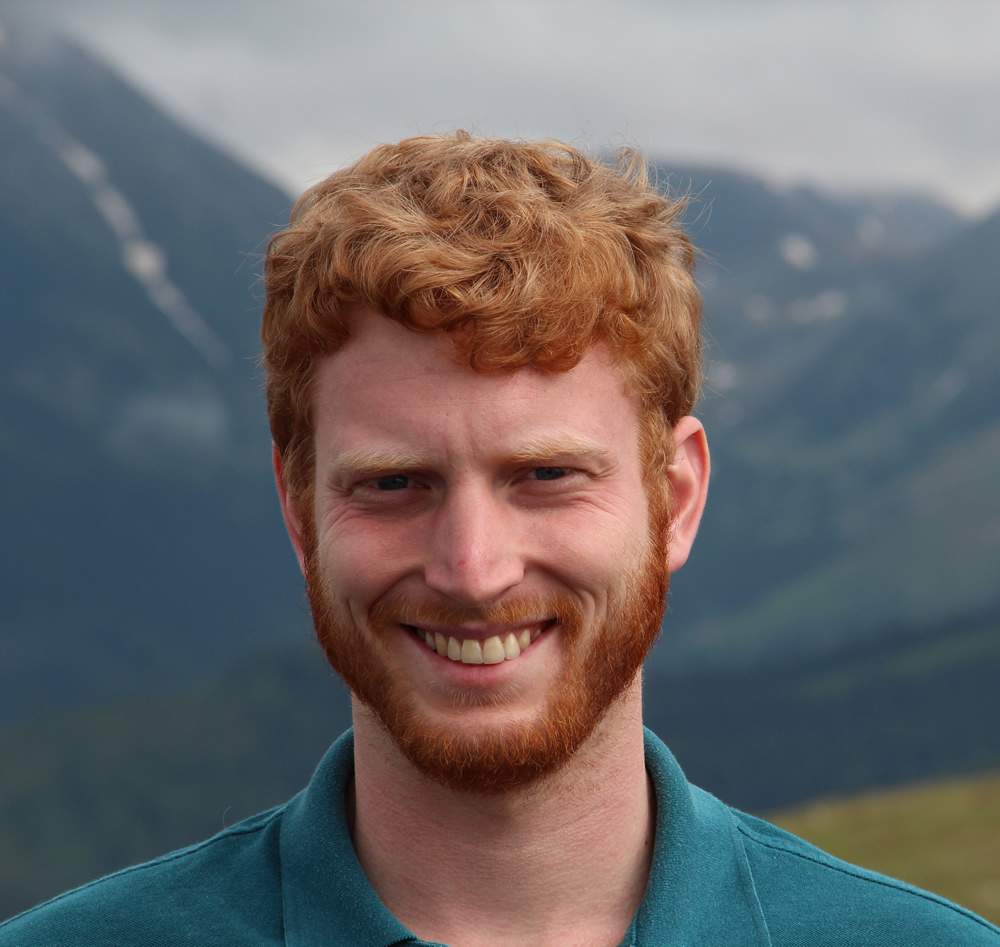
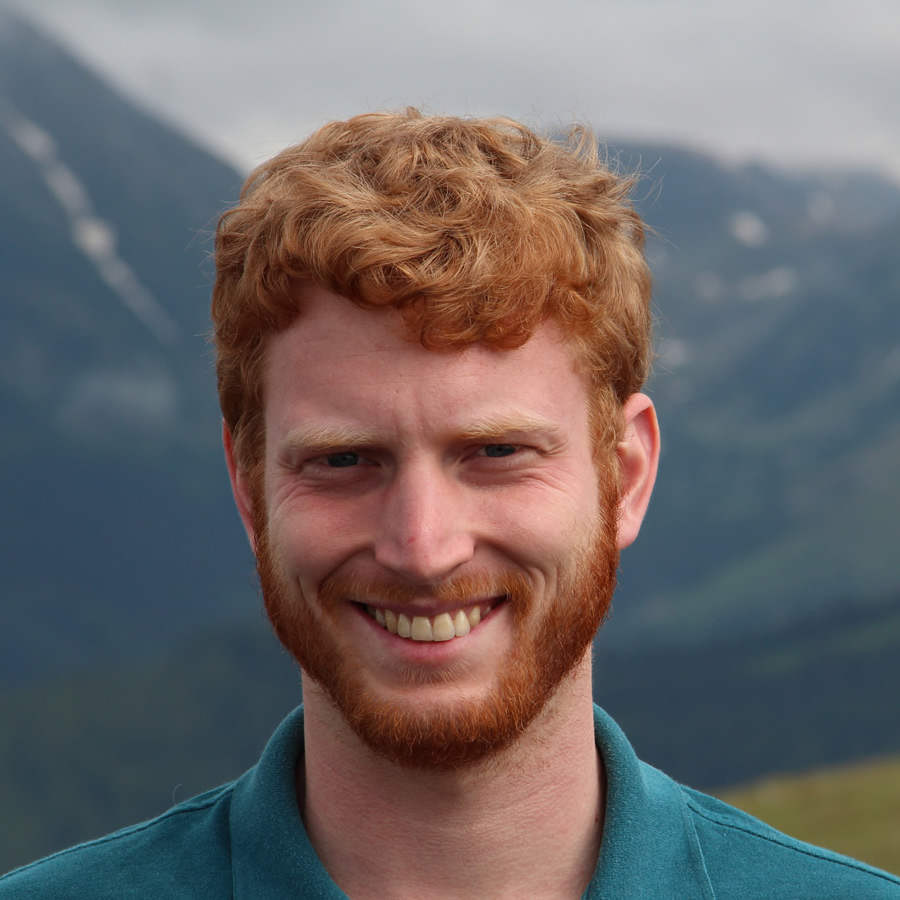
added images

diff --git a/_site/team/index.html b/_site/team/index.html
@@ -92,7 +92,7 @@
 
     
         <div id="bios">
-          <img class="profile_circle" src="/assets/images/bios/nicholas.png" />
+          <img class="profile_circle" src="/assets/images/bios/nicholas.jpg" />
       		<h2>Nicholas Kingston</h2>
       		<h3 class="subtitle">Founding Partner</h3>
           <h4 class="highlight"> Specialities: Branding, Marketing, Front-End Design, Strategy </h4>
@@ -105,7 +105,7 @@
 
     
         <div id="bios">
-          <img class="profile_circle" src="/assets/images/bios/arsham.png" />
+          <img class="profile_circle" src="/assets/images/bios/arsham.jpg" />
       		<h2>Arsham Skrenes</h2>
       		<h3 class="subtitle">Founding Partner</h3>
           <h4 class="highlight"> Specialities: iPhone Development, Server Management, Application Development </h4>
@@ -118,7 +118,7 @@
 
     
         <div id="bios">
-          <img class="profile_circle" src="/assets/images/bios/jay.png" />
+          <img class="profile_circle" src="/assets/images/bios/jay.jpg" />
       		<h2>Jay Perry</h2>
       		<h3 class="subtitle">Design Lead</h3>
           <h4 class="highlight"> Specialities: Branding, Web Interface Design, Print Design </h4>

diff --git a/_site/bio/partner/2013/07/11/arsham-bio.html b/_site/bio/partner/2013/07/11/arsham-bio.html
@@ -76,7 +76,7 @@
           
           <h2>Arsham Skrenes</h2>
 <h3>Arsham Skrenes</h3>
-<img src="/assets/images/bios/arsham.png" />
+<img src="/assets/images/bios/arsham.jpg" />
 
 <div class="post">
 <p>Arsham has over ten years of experience developing applications for both web and desktop use. He has developed systems managing the data and interactions of over 100,000 volunteers and staff members while at the Vancouver Olympic Organizing Committee. He continued his large scale systems development while working with PSI to develop its online University, helping develop a custom single-sign-on system between Moodle and Drupal. Arsham was also entered into the Computer Graphics hall of fame at UBC for his work on game engine development. Currently completing a masters degree in Computer Science, Arsham has a strong understanding of how to scale and build robust applications that perform well in low-bandwidth contexts. Arsham is one of the lead-developers in the Bivee group and insures that applications perform consistently at scale.</p>

diff --git a/_site/bio/2013/07/09/jay-bio.html b/_site/bio/2013/07/09/jay-bio.html
@@ -76,7 +76,7 @@
           
           <h2>Jay Perry</h2>
 <h3>Jay Perry</h3>
-<img src="/assets/images/bios/jay.png" />
+<img src="/assets/images/bios/jay.jpg" />
 
 <div class="post">
 <p>Jay has worked in the design industry for over ten years, working on projects ranging from video and motion graphics to subway station takeovers, newspapers and websites. Jay served as an associate art director at Discovery Communications with a team that focused on the Animal Planet, Planet Green and Science networks. Recently Jay has focused on application interface design. He has designed the interface of PSI’s current collaborative document creation and learning tool - WorkSmart. He also contributed to the development of PennState’s online learning system’s interface. Jay is one of the lead designers in the Bivee group and guides the creation of intuitive, simple and effective web applications. Jay Perry’s previous work and portfolio.</p>

diff --git a/_site/bio/partner/2013/07/11/nico-bio.html b/_site/bio/partner/2013/07/11/nico-bio.html
@@ -76,7 +76,7 @@
           
           <h2>Nicholas Kingston</h2>
 <h3>Nicholas Kingston</h3>
-<img src="/assets/images/bios/nicholas.png" />
+<img src="/assets/images/bios/nicholas.jpg" />
 
 <div class="post">
 <p>Nicholas has over nine years in Marketing, Branding and Business Restructuring / Transformation, Nicholas has worked with firms ranging from start-ups to Fortune 500 providing extensive consulting services in design, web applications and strategy. Nicholas is responsible for Design, Front-End Development and Business Strategy in the Bivee group.</p>

diff --git a/_posts/bio/2013-07-11-arsham-bio.md b/_posts/bio/2013-07-11-arsham-bio.md
@@ -6,7 +6,7 @@ categories: bio partner
 name: Arsham Skrenes
 job-title: Founding Partner
 specialities: iPhone Development, Server Management, Application Development
-image: /assets/images/bios/arsham.png
+image: /assets/images/bios/arsham.jpg
 ---
 
 Arsham has over ten years of experience developing applications for both web and desktop use. He has developed systems managing the data and interactions of over 100,000 volunteers and staff members while at the Vancouver Olympic Organizing Committee. He continued his large scale systems development while working with PSI to develop its online University, helping develop a custom single-sign-on system between Moodle and Drupal. Arsham was also entered into the Computer Graphics hall of fame at UBC for his work on game engine development. Currently completing a masters degree in Computer Science, Arsham has a strong understanding of how to scale and build robust applications that perform well in low-bandwidth contexts. Arsham is one of the lead-developers in the Bivee group and insures that applications perform consistently at scale.

diff --git a/_posts/bio/2013-07-11-jay-bio.md b/_posts/bio/2013-07-11-jay-bio.md
@@ -6,7 +6,7 @@ categories: bio
 name: Jay Perry
 job-title: Design Lead
 specialities: Branding, Web Interface Design, Print Design
-image: /assets/images/bios/jay.png
+image: /assets/images/bios/jay.jpg
 ---
 
 Jay has worked in the design industry for over ten years, working on projects ranging from video and motion graphics to subway station takeovers, newspapers and websites. Jay served as an associate art director at Discovery Communications with a team that focused on the Animal Planet, Planet Green and Science networks. Recently Jay has focused on application interface design. He has designed the interface of PSI’s current collaborative document creation and learning tool - WorkSmart. He also contributed to the development of PennState’s online learning system’s interface. Jay is one of the lead designers in the Bivee group and guides the creation of intuitive, simple and effective web applications. Jay Perry’s previous work and portfolio.

diff --git a/_posts/bio/2013-07-11-nico-bio.md b/_posts/bio/2013-07-11-nico-bio.md
@@ -6,7 +6,7 @@ categories: bio partner
 name: "Nicholas Kingston"
 job-title: Founding Partner
 specialities: Branding, Marketing, Front-End Design, Strategy
-image: /assets/images/bios/nicholas.png
+image: /assets/images/bios/nicholas.jpg
 ---
 
 Nicholas has over nine years in Marketing, Branding and Business Restructuring / Transformation, Nicholas has worked with firms ranging from start-ups to Fortune 500 providing extensive consulting services in design, web applications and strategy. Nicholas is responsible for Design, Front-End Development and Business Strategy in the Bivee group.
